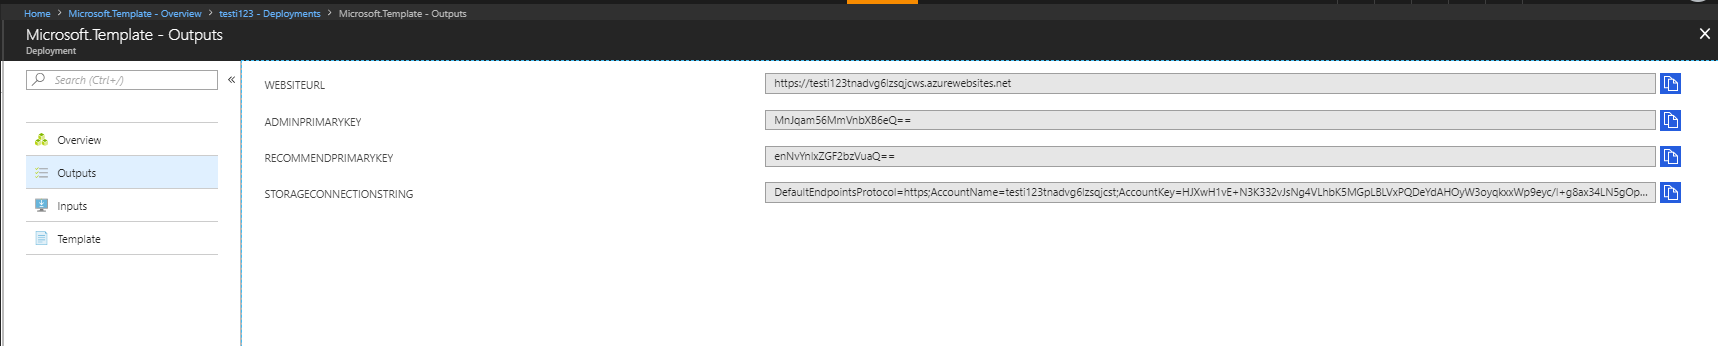
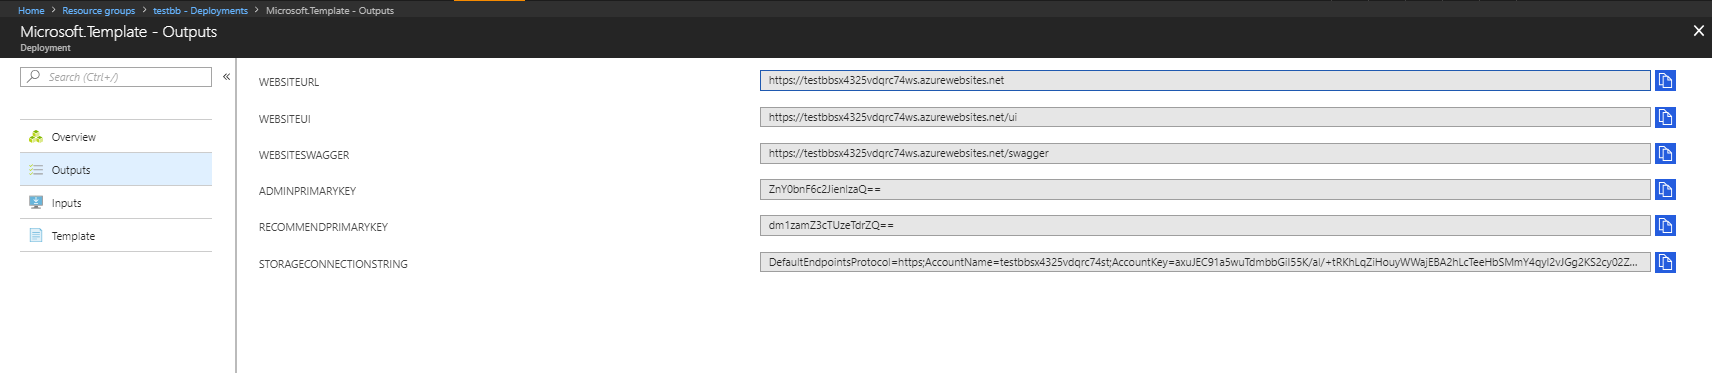
Updated markdown

diff --git a/deploy/README.md b/deploy/README.md
@@ -6,7 +6,7 @@
 
 ## Deployment Instructions
 
-Before proceding, please ensure that you have an active Azure Subscription. If you do not, create one by visitng the [Azure Portal](https://portal.azure.com/). Once this is complete, click on the Deploy To Azure button above. The default parameters should suffice. If you wish to change them, you may go ahead and select a different value from the dropdown for the Account Type, Hosting Plan Sku, and the App Insights Location. We recommend leaving the Deploy Package Uri to its default value.
+Before proceding, please ensure that you have an active Azure Subscription. If you do not, create one by visiting the [Azure Portal](https://portal.azure.com/). Once this is complete, click on the Deploy To Azure button above. The default parameters should suffice. If you wish to change them, you may go ahead and select a different value from the dropdown for the Account Type, Hosting Plan Sku, and the App Insights Location. We recommend leaving the Deploy Package Uri to its default value.
 
 Once your deployment is complete, please return here to read the Next steps.
 
@@ -20,17 +20,21 @@ You can use this service to train recommendation models and to get product recom
 Please take note of the following pieces of information so you can use them to access the newly created RESTful endpoint that you can use to train models, and get product recommendations from
 those models. 
 
-To get the following values, you must go to the Deployment page for the deployment which you just created in the Azure Portal. This can be found in the resource group that was just created (under the deployments section). Once here, please click on Outputs to see the deployments outputs which you'll need to get the values in the table below. This screenshot should help you find the deployment outputs.
+To get the following values, you must go to the Deployment page for the deployment which you just created in the Azure Portal. This can be found in the resource group that was just created (under the deployments section). This screenshot should help you find the deployments page.
+
+![Diagram](deploymentsPageFromRg.PNG)
+
+Once here, please click on Outputs to see the deployments outputs which you'll need to get the values in the table below. This screenshot should help you find the deployment outputs.
 
 ![Diagram](deploymentOutputs.PNG)
 
 |*Output Description* |*Output parameter in Deployment Outputs*|
 |-----------|----------|
 |**End Point (WEBSITEURL)**|WEBSITEURL Output |
-|**Admin Key (Primary)**|ADMINPRIMARYKEY Output |
-|**Recommender Key** |RECOMMENDPRIMARYKEY Output |
 |**Recommendations UI**|{WEBSITEURL Output}/ui |
 |**Swagger**|{WEBSITEURL Output}/swagger |
+|**Admin Key (Primary)**|ADMINPRIMARYKEY Output |
+|**Recommender Key** |RECOMMENDPRIMARYKEY Output |
 |**Storage Account Connection String**|STORAGECONNECTIONSTRING Output |
 
 &nbsp;
@@ -55,7 +59,7 @@ Congratulations! You now have a recommendations service you can use to train mod
 Take a look at the [Getting Started Guide](../getting-started.md) to learn how to create your first model.  If you want to learn abut the APIs exposed you can also take a look at the [API Reference](../doc/api-reference.md).
 
 
-## Post Deployments
+## Re-deploying new code to the deployed solution
 
 To deploy new version of the code on an already deployed solution, there are several possible ways. Two of the many approaches are described below:
 

diff --git a/README.md b/README.md
@@ -25,6 +25,7 @@ At a high level, The solution exposes mechanisms to:
 Before you can use the solution, you need to deploy it. 
 
 Click on the following button to be redirected to the deployment instructions page.
+
 <a href="deploy/" target="_blank">
     <img src="http://azuredeploy.net/deploybutton.png"/>
 </a>
